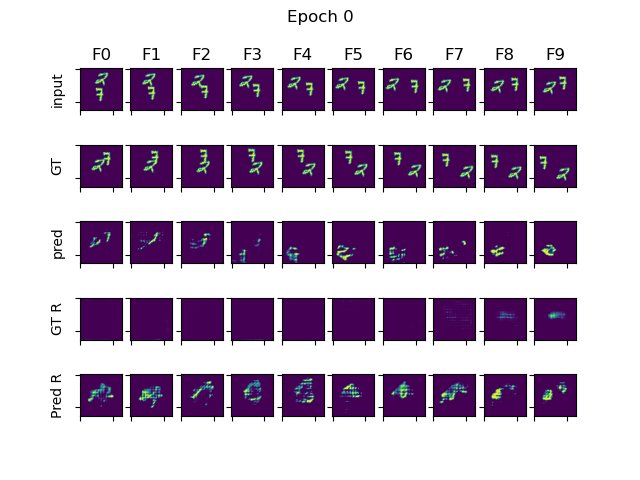
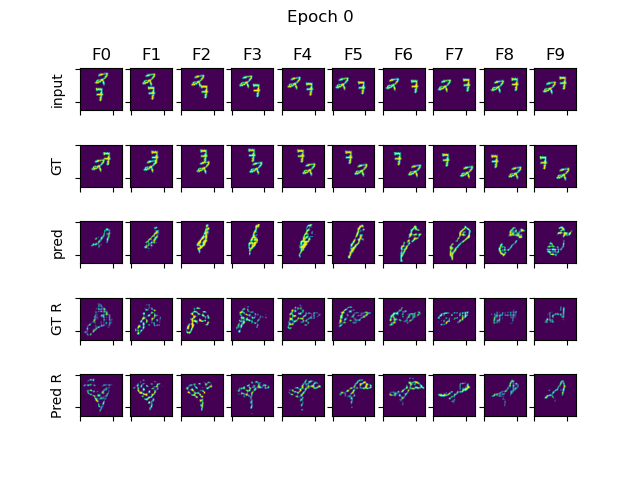
updates

diff --git a/gan/models/cocyclegan/cocycle_gan_model.py b/gan/models/cocyclegan/cocycle_gan_model.py
@@ -26,6 +26,7 @@ class CoCycleGAN(LightningModule):
         self.discriminator = nn.Sequential()
         self.best_val_loss = float("inf")
         self.val_mse = torchmetrics.MeanSquaredError()
+        self.ssim = torchmetrics.SSIM()
 
         self.__cyclic_function = {
             "l1": F.l1_loss,
@@ -204,6 +205,9 @@ class CoCycleGAN(LightningModule):
             return 0
 
     def __discriminator_loss(self, x: t.Tensor, y: t.Tensor):
+
+        return self.__all_way_discriminator_loss(x, y) / 2
+
         forward_discriminator_loss = self.__one_way_discriminator_loss(
             x, y, future=self.x_future
         )
@@ -260,17 +264,70 @@ class CoCycleGAN(LightningModule):
         sequence = t.cat((fake_x, fake_y), dim=1)
         return self.__adversarial_loss(self.discriminator(sequence), true_label)
 
+    def __all_way_discriminator_loss(self, x: t.Tensor, y: t.Tensor):
+
+        b_size = x.shape[0]
+
+        fake_y = self.generator(self.__embed(x, future=True))
+        fake_x = self.generator(self.__embed(fake_y, future=False))
+        pred_x = self.generator(self.__embed(y, future=False))
+
+        first_b = t.cat((x, fake_y), 1)
+        second_b = t.cat((fake_x, y), 1)
+        third_b = t.cat((pred_x, y), 1)
+        fourth_b = t.cat((fake_x, fake_y), 1)
+
+        all_fakes = t.cat((first_b, second_b, third_b, fourth_b), 0)
+
+        # randomly select b_size from all_fakes
+        all_fakes = all_fakes[t.randperm(all_fakes.shape[0])[:b_size]]
+
+        batch_size = all_fakes.shape[0]
+        true_label = t.ones(batch_size, 1, device=self.device)
+        fake_label = t.zeros(batch_size, 1, device=self.device)
+
+        true_sequence = t.cat((x, y), 1)
+
+        return self.__adversarial_loss(
+            self.discriminator(all_fakes),
+            fake_label,
+        ) + self.__adversarial_loss(self.discriminator(true_sequence), true_label)
+
+    def __three_way_generator_loss(
+        self,
+        x: t.Tensor,
+        y: t.Tensor,
+    ):
+        fake_y = self.generator(self.__embed(x, future=True))
+        fake_x = self.generator(self.__embed(fake_y, future=False))
+        pred_x = self.generator(self.__embed(y, future=False))
+
+        first_b = t.cat((x, fake_y), 1)
+        second_b = t.cat((fake_x, y), 1)
+        third_b = t.cat((pred_x, y), 1)
+        fourth_b = t.cat((fake_x, fake_y), 1)
+
+        all_fakes = t.cat((first_b, second_b, third_b, fourth_b), 0)
+
+        batch_size = all_fakes.shape[0]
+        true_label = t.ones(batch_size, 1, device=self.device)
+        generator_loss_y = self.__adversarial_loss(
+            self.discriminator(all_fakes),
+            true_label,
+        )
+        return generator_loss_y
+
     def __generator_loss(self, x: t.Tensor, y: t.Tensor, batch_idx: int, flag: str):
         visualize = (batch_idx % 10 == 0) if flag == "train" else (batch_idx == 0)
 
-        forward_generator_loss = self.__one_way_generator_loss(
-            x, y, future=self.x_future, visualize=visualize
-        )
-        backward_generator_loss = self.__one_way_generator_loss(
-            x, y, future=self.y_future, visualize=visualize
-        )
+        # forward_generator_loss = self.__one_way_generator_loss(
+        #     x, y, future=self.x_future, visualize=visualize
+        # )
+        # backward_generator_loss = self.__one_way_generator_loss(
+        #     x, y, future=self.y_future, visualize=visualize
+        # )
 
-        cyclic_generator_loss = self.__cyclic_way_generator_loss(x, y)
+        # cyclic_generator_loss = self.__cyclic_way_generator_loss(x, y)
 
         if visualize:
             self.__visualize_predictions(x, y, flag)
@@ -284,23 +341,25 @@ class CoCycleGAN(LightningModule):
         pred_cycle_l1 = F.l1_loss(fake_x, x)
 
         mse_sum_pred_y_loss = F.mse_loss(pred_y, y, reduction="sum")
+        adversarial_loss = self.__three_way_generator_loss(x, y)
 
-        self.log("CoCycleLoss/forward", forward_generator_loss)
-        self.log("CoCycleLoss/backward", backward_generator_loss)
-        self.log("CoCycleLoss/cyclic", cyclic_generator_loss)
+        # self.log("CoCycleLoss/forward", forward_generator_loss)
+        # self.log("CoCycleLoss/backward", backward_generator_loss)
+        # self.log("CoCycleLoss/cyclic", cyclic_generator_loss)
+        self.log("CoCycleLoss/adversarial_loss", adversarial_loss)
         self.log("CoCycleLoss/pred_y", pred_y_l1)
         self.log("CoCycleLoss/pred_x", pred_x_l1)
         self.log("CoCycleLoss/pred_cycle", pred_cycle_l1)
         self.log("CoCycleLoss/mse_sum_pred_y", mse_sum_pred_y_loss / 10)
 
+        # flip = t.rand(x.shape[0], 1, device=self.device) < 0.5
+        # flip_2 = t.rand(x.shape[0], 1, device=self.device) < 0.5
+
         return (
-            1 * forward_generator_loss
-            + (backward_generator_loss + cyclic_generator_loss)
-            + 10 * pred_cycle_l1
+            10 * adversarial_loss
+            + 10 * pred_cycle_l1  # * flip.sum
             + 10 * pred_y_l1
-            + 10 * pred_x_l1
-            + 100 * F.mse_loss(pred_y, y)
-            + 20 * F.mse_loss(pred_x, x)
+            + 10 * pred_x_l1  # * flip_2
         ) / 10
 
     def training_step(
@@ -326,6 +385,13 @@ class CoCycleGAN(LightningModule):
             self.log("train_mse_loss", mse_loss, prog_bar=True)
             loss = self.__generator_loss(x, y, batch_idx, flag="train")
             self.log("train_generator_loss", loss, prog_bar=True)
+            mse_sum_train = F.mse_loss(pred, y, reduction="sum")
+            self.log("train_mse_sum", mse_sum_train / 10, prog_bar=True)
+            # pred_r = pred.reshape(pred.shape[0] * pred.shape[1], *pred.shape[2:])
+            # y_rs = y.reshape(y.shape[0] * y.shape[1], *y.shape[2:])
+            # self.ssim.update(pred_r, y_rs)
+            # self.log("train_ssim", self.ssim.compute(), prog_bar=True)
+
             return {"loss": loss}
 
         # train temporal discriminator
